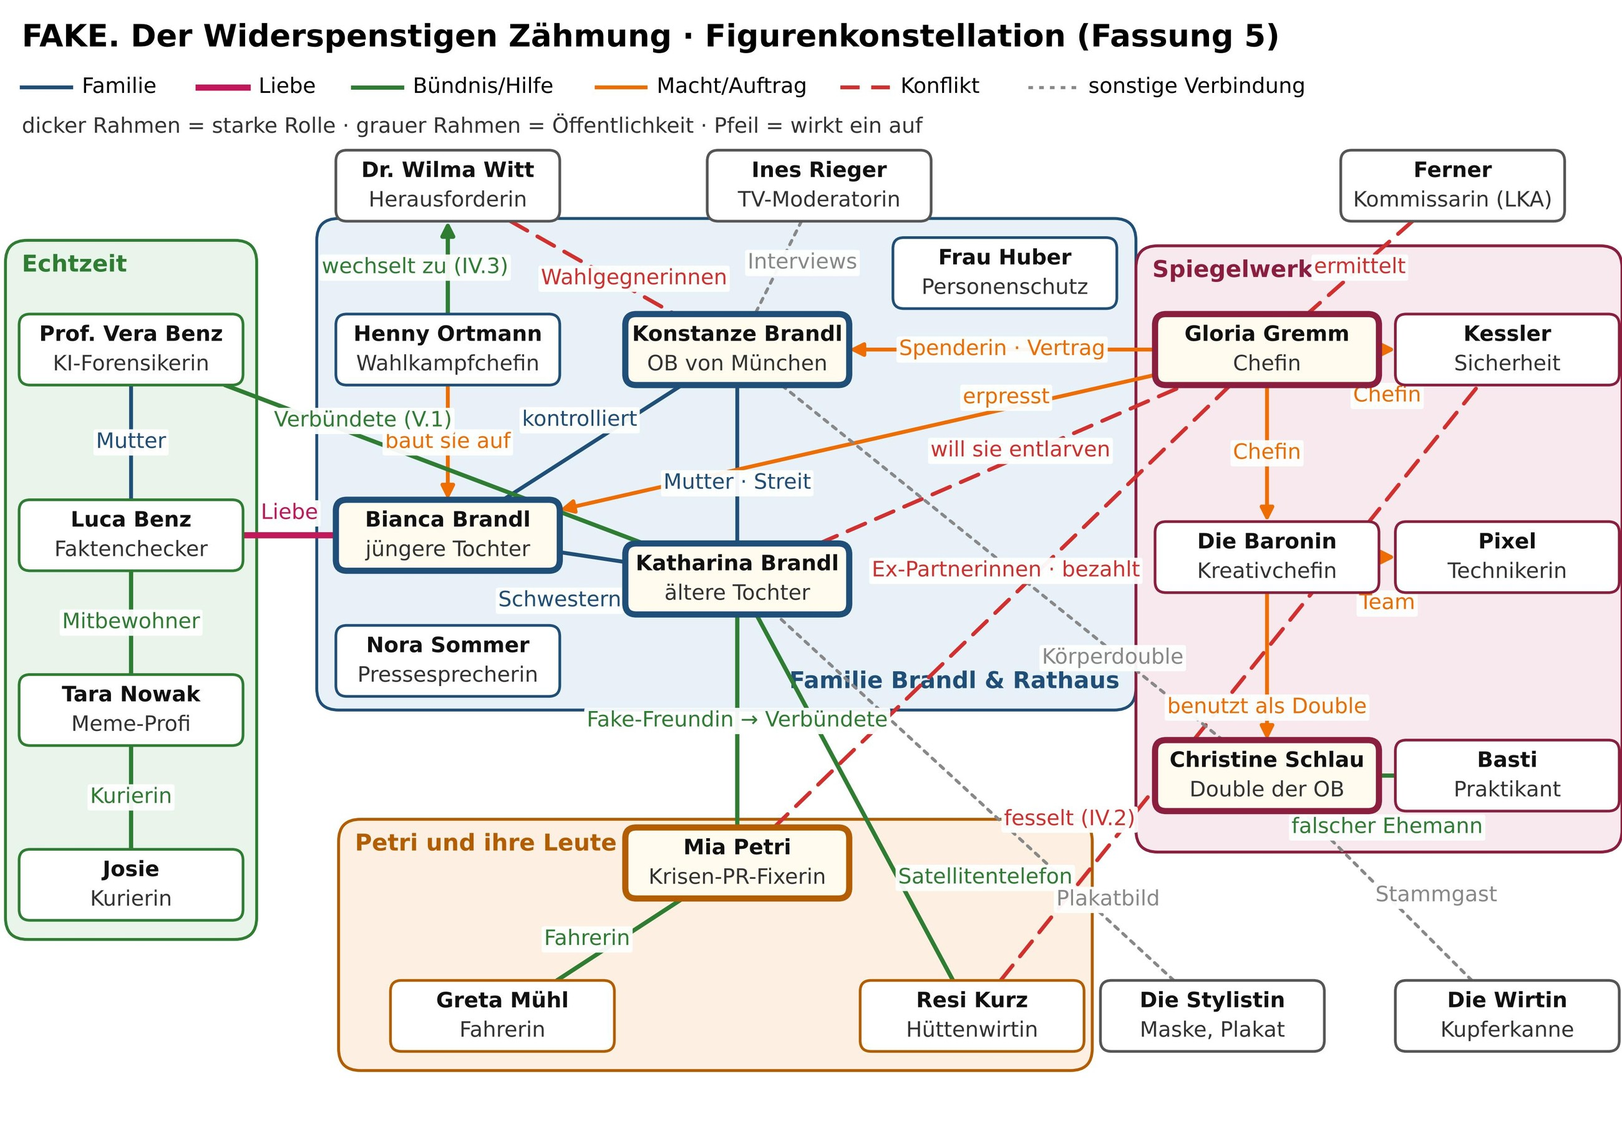
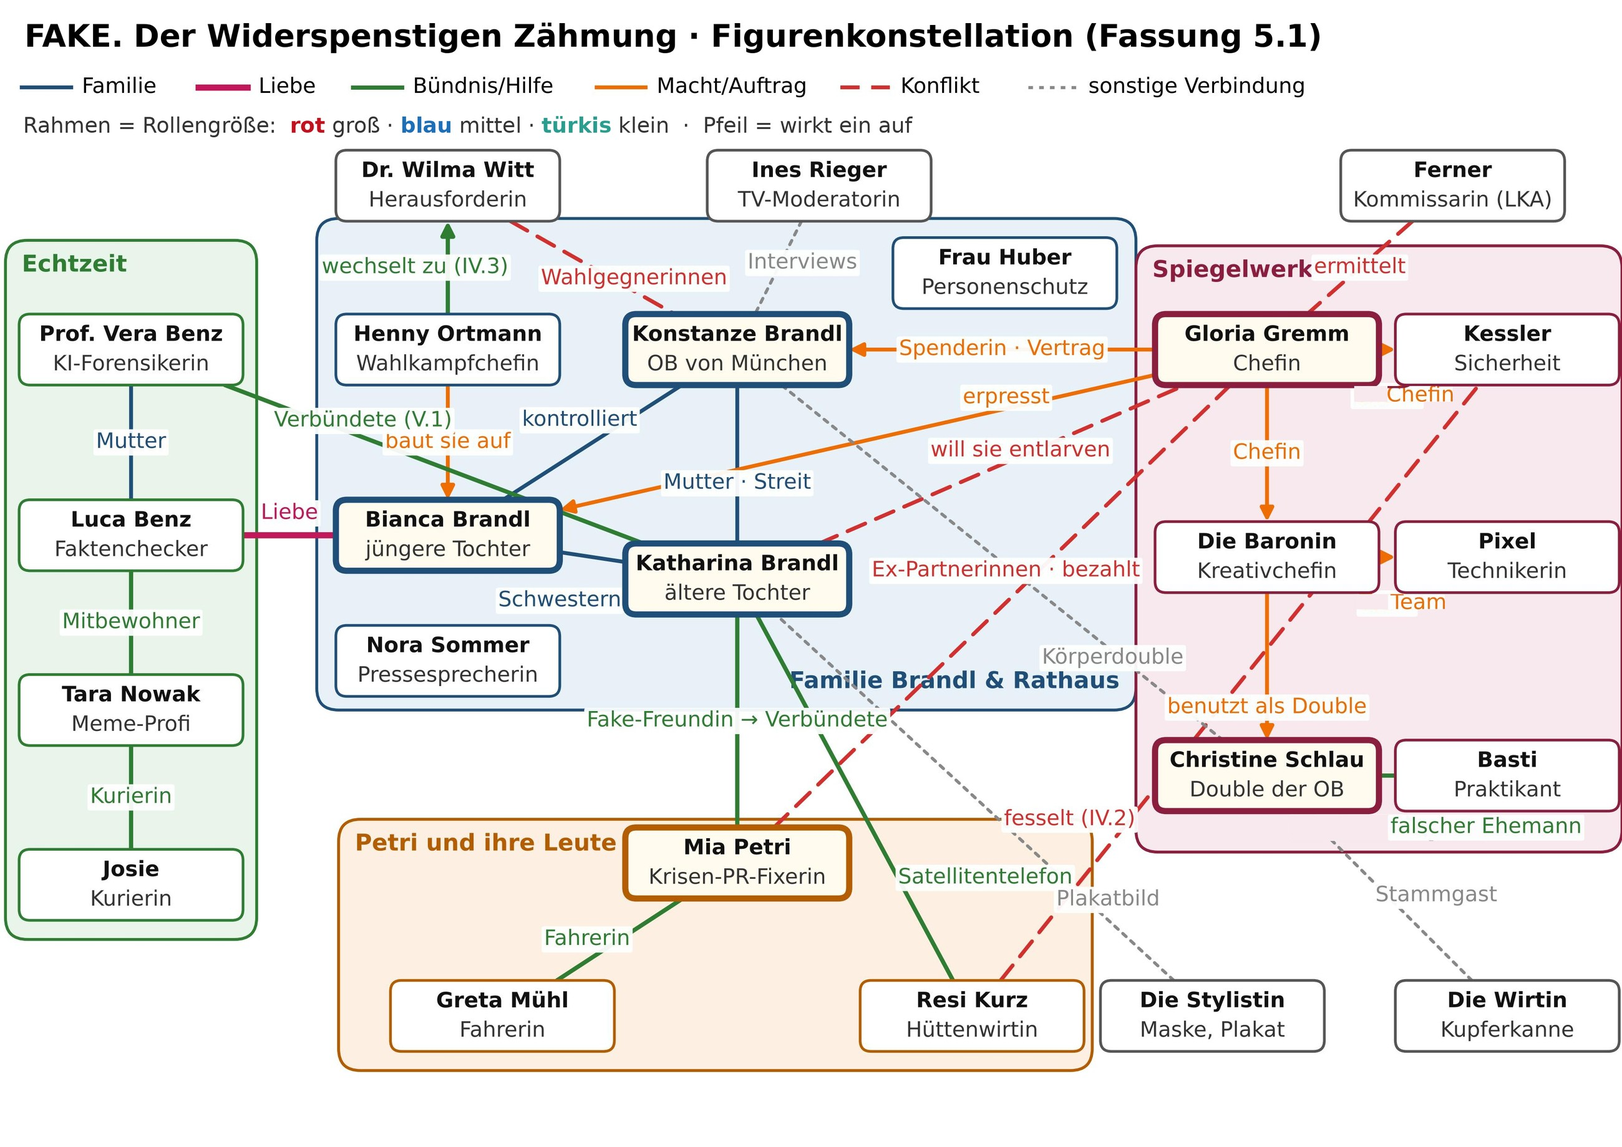
Besetzungstafel FAKE: Fassung 5.1, Rollenkarten mit Beschreibung, Größenrahmen
Wortzahlen, Szenen und Rollentypen aus dem Anhang von Fassung 5.1 (neuer
Einschub 4), Doppelrolle Pixel + Sommer entfällt. Besetzte Rollen zeigen
Name, Beschreibung und Darstellende; Rahmenfarbe nach Rollengröße.

Claude-Session: https://claude.ai/code/session_011yri2JKWKay1aEcZENJJ15

diff --git a/besetzungstafel-fake/index.html b/besetzungstafel-fake/index.html
@@ -94,11 +94,23 @@ form.add input{flex:1;min-width:0;padding:8px 10px;border:1px solid var(--line);
 .boardwrap{overflow-x:auto;border-radius:10px;border:1px solid var(--line);background:var(--sheet);box-shadow:var(--shadow)}
 .board{position:relative;min-width:980px;aspect-ratio:297/210;container-type:inline-size;background:#fff}
 .board img{position:absolute;inset:0;width:100%;height:100%;max-width:none;user-select:none;-webkit-user-drag:none;pointer-events:none}
-.slot{position:absolute;border:0;padding:0;background:transparent;border-radius:1cqw;cursor:pointer}
-.slot.over{background:rgba(43,75,140,.16);outline:2.5px solid var(--accent);outline-offset:1px}
-.slot.target .ring{position:absolute;inset:0;border-radius:inherit;outline:2px dashed var(--accent);outline-offset:1px;opacity:.55}
-.chip{position:absolute;display:flex;align-items:center;justify-content:center;gap:.35cqw;font-family:var(--f-tape);color:var(--tape-ink);
-  background:var(--tape);border-bottom:.18cqw solid var(--tape-edge);font-size:clamp(11px,1.12cqw,17px);line-height:1;padding:0 .4cqw;
+/* Rollenkarten über den Kästen der Konstellation: Name, Beschreibung, darunter die Besetzung */
+:root{--sz-gross:#c1121f;--sz-mittel:#1d6fb8;--sz-klein:#2a9d8f}
+.slot{position:absolute;display:flex;flex-direction:column;align-items:stretch;gap:.12cqw;padding:.25cqw .3cqw .3cqw;
+  background:#fff;color:#1c2331;border:.34cqw solid var(--sz-mittel);border-radius:.5cqw;cursor:pointer;text-align:center;z-index:2;overflow:hidden}
+.slot.gross{border-color:var(--sz-gross)} .slot.mittel{border-color:var(--sz-mittel)} .slot.klein{border-color:var(--sz-klein)}
+.slot .rn{font-family:"Barlow Condensed","Arial Narrow",Arial,sans-serif;font-weight:700;font-size:1.22cqw;line-height:1.05;white-space:nowrap;overflow:hidden;text-overflow:ellipsis}
+.slot .rd{font-size:.88cqw;line-height:1.05;color:#4a5263;white-space:nowrap;overflow:hidden;text-overflow:ellipsis}
+.slot .free{flex:1;display:flex;align-items:center;justify-content:center;border:.12cqw dashed #b9c0cc;border-radius:.3cqw;font-size:.8cqw;color:#8a93a3;min-height:0}
+.slot .chip{position:relative;flex:1;min-height:0}
+.slot.over{outline:.3cqw solid var(--accent);outline-offset:.15cqw;background:#eef3fc}
+.slot.target .free{border-color:var(--accent);color:var(--accent)}
+.sizes{display:flex;flex-wrap:wrap;gap:4px 12px;font-size:13px;color:var(--mute);align-items:center}
+.sizes span::before{content:"";display:inline-block;width:14px;height:10px;border:3px solid currentColor;border-radius:3px;margin-right:5px;vertical-align:-1px}
+.sizes .g{color:var(--sz-gross)} .sizes .m{color:var(--sz-mittel)} .sizes .k{color:var(--sz-klein)}
+.sizes b{color:var(--ink);font-weight:600}
+.chip{display:flex;align-items:center;justify-content:center;gap:.35cqw;font-family:var(--f-tape);color:var(--tape-ink);
+  background:var(--tape);border-bottom:.18cqw solid var(--tape-edge);font-size:clamp(10px,1.08cqw,17px);line-height:1;padding:0 .4cqw;
   box-shadow:0 1px 2px rgba(0,0,0,.25);cursor:grab;touch-action:none;user-select:none;border-radius:2px;overflow:hidden;z-index:3;
   clip-path:polygon(0 6%,3% 0,97% 3%,100% 0,99% 94%,100% 100%,2% 97%,0 100%)}
 .chip span{overflow:hidden;text-overflow:ellipsis;white-space:nowrap;min-width:0}
@@ -106,6 +118,7 @@ form.add input{flex:1;min-width:0;padding:8px 10px;border:1px solid var(--line);
 .chip.conflict{background:#f6a07e;border-bottom-color:#b0421c}
 .chip .x{font-family:var(--f-body);font-weight:700;font-size:.8em;opacity:0;border:0;background:none;color:inherit;cursor:pointer;padding:0 .1cqw;flex:none}
 .chip:hover .x,.chip:focus-within .x{opacity:.7}
+.mx td.r .sz{display:inline-block;width:.55em;height:.55em;border-radius:2px;margin-right:5px;vertical-align:.1em}
 
 /* Notfall-Doppelrollen */
 .dbl{display:grid;grid-template-columns:repeat(auto-fill,minmax(250px,1fr));gap:8px}
@@ -221,7 +234,8 @@ th.num{text-align:right}
   html,body{background:#fff}
   body{padding:0;font-size:11pt}
   .wrap{display:block;max-width:none}
-  .noprint,.wishpanel,.side,.status,#printBtn,#h-liste,#dblBox,.panel .bar .tools,.panel>.hint,.panel .note,.chip .x,.slot .ring{display:none!important}
+  .noprint,.wishpanel,.side,.status,#printBtn,#h-liste,#dblBox,.panel .bar .tools,.panel>.hint,.panel .note,.chip .x{display:none!important}
+  .slot .free{color:transparent}
   section[aria-labelledby="h-liste"]{display:none!important}
   .printonly{display:block}
   header.top{margin:0 0 2mm}
@@ -234,7 +248,8 @@ th.num{text-align:right}
   section[aria-labelledby="h-tafel"] .bar{display:none}
   section[aria-labelledby="h-tafel"]{break-after:page;page-break-after:always}
   .board{min-width:0;width:100%}
-  .chip{font-size:9.5pt}
+  .chip{font-size:9pt}
+  .slot .rn{font-size:9pt} .slot .rd{font-size:7pt}
   section[aria-labelledby="h-mx"]{break-before:page;page-break-before:always}
   section[aria-labelledby="h-mx"] .bar{display:block;margin:0 0 1mm}
   #h-mx{font-size:16pt;margin:0}
@@ -257,7 +272,7 @@ th.num{text-align:right}
 <div class="wrap">
   <header class="top">
     <div>
-      <div class="eyebrow">Theatergruppe · FAKE. Der Widerspenstigen Zähmung · Fassung 5</div>
+      <div class="eyebrow">Theatergruppe · FAKE. Der Widerspenstigen Zähmung · Fassung 5.1</div>
       <h1>Besetzungstafel</h1>
       <div class="printonly eyebrow" id="printDate"></div>
     </div>
@@ -335,14 +350,16 @@ th.num{text-align:right}
       <div class="bar">
         <h2 id="h-tafel">Die Rollen</h2>
         <div class="tools">
-          <span class="hint" style="margin:0">Besetzte Kacheln lassen sich direkt von Rolle zu Rolle schieben; auf einer besetzten Rolle tauschen sie.</span>
+          <span class="sizes" id="sizeLegend"></span>
         </div>
       </div>
+      <p class="hint" style="margin:-2px 0 8px">Besetzte Kacheln lassen sich direkt von Rolle zu Rolle schieben; auf einer besetzten Rolle tauschen sie. Der farbige Rahmen zeigt die Rollengröße laut Anhang.</p>
+      <div class="sizes printonly" id="sizeLegendPrint" style="margin:0 0 1.5mm"></div>
       <div class="boardwrap"><div class="board" id="board"><img src="konstellation.jpg" alt="Figurenkonstellation von FAKE, Fassung 5, mit allen 24 Rollen"></div></div>
 
       <div style="margin-top:14px" id="dblBox">
         <h2 style="font-size:18px">Notfall-Doppelrollen</h2>
-        <p class="hint">Laut Anhang sind keine Doppelrollen nötig: 24 Rollen für 24 Darstellende. Fällt jemand aus, lassen sich diese Paare ohne Szenen-Überschneidung zusammenlegen. Kessler liegt im Finale gefesselt auf der Bühne und kann deshalb nicht gedoppelt werden.</p>
+        <p class="hint">Laut Anhang sind keine Doppelrollen nötig: 24 Rollen für 24 Darstellende. Fällt jemand aus, lassen sich diese beiden Paare ohne Szenen-Überschneidung zusammenlegen. Alle anderen Rollen stehen im Finale gleichzeitig auf der Bühne und lassen sich deshalb nicht doppeln.</p>
         <div class="dbl" id="dbl"></div>
       </div>
     </section>
@@ -357,7 +374,7 @@ th.num{text-align:right}
     </div>
     <p class="hint" id="mxHint"></p>
     <div class="tablewrap" style="max-height:640px;overflow:auto"><table class="mx" id="mx"></table></div>
-    <p class="note">Die Zahl im Feld ist die Wortzahl der Rolle in dieser Szene (eigene Auszählung des Textbuchs; die Summen weichen um bis zu 6 Wörter vom Anhang ab). Dunkel: über 100 Wörter. Rot: eine Person hat zwei Rollen in derselben Szene. Stumme Auftritte sind nicht erfasst.</p>
+    <p class="note">Die Zahl im Feld ist die Wortzahl der Rolle in dieser Szene (eigene Auszählung des Textbuchs; die Summen weichen um bis zu 20 Wörter vom Anhang ab). Dunkel: über 100 Wörter. Rot: eine Person hat zwei Rollen in derselben Szene. Stumme Auftritte sind nicht erfasst.</p>
   </section>
 
   <section class="panel" aria-labelledby="h-liste">
@@ -374,7 +391,7 @@ th.num{text-align:right}
     </table></div>
     <div id="openRolesBox"></div>
     <textarea class="copyout" id="copyOut" hidden readonly aria-label="Besetzungsliste als Text"></textarea>
-    <p class="note">Wortzahlen aus dem Anhang von Fassung 5 (nur gesprochene Wörter). Szenen-Konflikte werden nach den Sprechanteilen geprüft: Wer zwei Rollen in derselben Szene hat, wird markiert. Stehen zwei Rollen einer Person in direkt aufeinanderfolgenden Szenen, erscheint ein Hinweis zum Umziehen. Stumme Auftritte sind nicht erfasst.</p>
+    <p class="note">Wortzahlen aus dem Anhang von Fassung 5.1 (nur gesprochene Wörter). Szenen-Konflikte werden nach den Sprechanteilen geprüft: Wer zwei Rollen in derselben Szene hat, wird markiert. Stehen zwei Rollen einer Person in direkt aufeinanderfolgenden Szenen, erscheint ein Hinweis zum Umziehen. Stumme Auftritte sind nicht erfasst.</p>
   </section>
 </div>
 
@@ -386,44 +403,46 @@ const MMW = 297, MMH = 210;
 // Szenen in Spielfolge mit Ort (laut Anhang Fassung 5)
 const SC = [
   ["Vorspiel","Vor","Rampe · Kupferkanne"],["I.1","I.1","Wahlkampfzentrale"],["I.2","I.2","Rampe · Tiefgarage"],["E1","E1","Rampe · Einschub 1"],
-  ["II.1","II.1","Wahlkampfzentrale"],["III.1","III.1","Fernsehstudio"],["III.2","III.2","Rampe"],["E2","E2","Rampe · Einschub 2"],
-  ["IV.1","IV.1","Hütte"],["IV.2","IV.2","Hütte"],["E3","E3","Rampe · Einschub 3"],["IV.3","IV.3","Wahlkampfzentrale"],
+  ["II.1","II.1","Wahlkampfzentrale"],["III.1","III.1","Fernsehstudio"],["III.2","III.2","Rampe"],["E2","E2","Rampe · Einschub 2"],["E3","E3","Rampe · Einschub 3"],
+  ["IV.1","IV.1","Hütte"],["IV.2","IV.2","Hütte"],["E4","E4","Rampe · Einschub 4"],["IV.3","IV.3","Wahlkampfzentrale"],
   ["V.1","V.1","Rampe"],["V.2","V.2","Rampe"],["V.3","V.3","Fernsehstudio · Finale"],["Nachspiel","Nach","Rampe · Kupferkanne"]
 ];
 const SIDX = Object.fromEntries(SC.map((s,i)=>[s[0],i]));
-// key: [Name, Wörter (Anhang), {Szene: Wörter (eigene Zählung)}, Tafelposition cx,cy,w,h (mm), Typ, Gruppe, Hinweis]
+// key: [Name, Wörter (Anhang 5.1), {Szene: Wörter (eigene Zählung)}, Tafelposition cx,cy,w,h (mm), Größe laut Anhang, Gruppe, Hinweis, Beschreibung]
 const R = {
-  konstanze:["Konstanze Brandl",786,{"I.1":188,"II.1":115,"III.1":93,"IV.3":194,"V.3":195},134.9,63.9,40,12,"stark","Familie Brandl & Rathaus"],
-  katharina:["Katharina Brandl",957,{"I.1":228,"II.1":85,"III.1":51,"IV.1":132,"IV.2":68,"V.1":196,"V.3":196},134.9,105.9,40,12,"stark","Familie Brandl & Rathaus"],
-  bianca:   ["Bianca Brandl",825,{"I.1":94,"II.1":115,"III.1":62,"III.2":168,"IV.3":201,"V.3":183},81.9,97.9,40,12,"stark","Familie Brandl & Rathaus"],
-  henny:    ["Henny Ortmann",378,{"I.1":101,"I.2":59,"II.1":37,"III.1":47,"IV.3":82,"V.3":52},81.9,63.9,40,12,"mittel","Familie Brandl & Rathaus"],
-  sommer:   ["Nora Sommer",154,{"I.1":19,"III.1":65,"V.3":70},81.9,120.9,40,12,"klein","Familie Brandl & Rathaus"],
-  huber:    ["Frau Huber",151,{"III.1":56,"V.3":94},183.8,49.9,40,12,"klein","Familie Brandl & Rathaus"],
-  luca:     ["Luca Benz",367,{"I.1":60,"II.1":52,"III.2":142,"IV.3":64,"V.3":49},23.8,97.9,40,12,"mittel","Echtzeit","für einen Jungen geschrieben, auch als Lucia möglich"],
-  tara:     ["Tara Nowak",379,{"I.1":56,"II.1":52,"III.2":122,"IV.3":75,"V.3":73},23.9,130,40,12,"mittel","Echtzeit"],
-  josie:    ["Josie",155,{"I.1":40,"III.2":52,"IV.3":47,"V.3":16},23.8,162,40,12,"klein","Echtzeit"],
-  vera:     ["Prof. Vera Benz",362,{"V.1":213,"V.3":149},23.9,63.9,40,12,"mittel","Echtzeit"],
-  petri:    ["Mia Petri",950,{"I.2":117,"II.1":195,"III.1":73,"IV.1":126,"IV.2":183,"V.1":156,"V.2":49,"V.3":51},134.9,157.9,40,12,"stark","Petri und ihre Leute"],
-  greta:    ["Greta Mühl",348,{"I.2":117,"III.1":31,"IV.1":33,"IV.2":64,"V.1":74,"V.3":29},91.8,186,40,12,"mittel","Petri und ihre Leute"],
-  resi:     ["Resi Kurz",349,{"IV.1":195,"IV.2":106,"V.3":48},177.8,186,40,12,"mittel","Petri und ihre Leute"],
-  gremm:    ["Gloria Gremm",845,{"I.1":150,"I.2":108,"II.1":55,"III.1":13,"IV.3":267,"V.2":63,"V.3":189},231.8,63.9,40,12,"stark","Spiegelwerk"],
-  kessler:  ["Kessler",155,{"I.2":36,"IV.2":77,"V.3":42},275.9,63.9,40,12,"klein","Spiegelwerk","im Finale gefesselt auf der Bühne"],
-  baronin:  ["Die Baronin",448,{"Vorspiel":108,"E1":83,"E2":72,"E3":46,"V.2":107,"Nachspiel":32},231.8,102,40,12,"mittel","Spiegelwerk"],
-  pixel:    ["Pixel",164,{"Vorspiel":19,"E1":25,"E2":35,"E3":31,"V.2":54},275.8,102,40,12,"klein","Spiegelwerk"],
-  christine:["Christine Schlau",875,{"Vorspiel":136,"E1":148,"III.1":16,"E2":126,"E3":140,"V.2":117,"V.3":98,"Nachspiel":88},231.8,141.9,40,12,"stark","Spiegelwerk"],
-  basti:    ["Basti",344,{"Vorspiel":41,"E1":58,"E2":101,"E3":13,"V.2":64,"V.3":21,"Nachspiel":40},275.9,141.9,40,12,"mittel","Spiegelwerk","für einen Jungen geschrieben, auch als Bastienne möglich"],
-  witt:     ["Dr. Wilma Witt",361,{"III.1":149,"IV.3":98,"V.3":114},81.9,33.9,40,12,"mittel","Außerdem"],
-  rieger:   ["Ines Rieger",370,{"I.1":79,"III.1":148,"V.3":143},149.9,33.9,40,12,"mittel","Außerdem"],
-  ferner:   ["Kommissarin Ferner",173,{"IV.3":121,"V.3":52},265.9,33.9,40,12,"klein","Außerdem"],
-  stylistin:["Die Stylistin",156,{"III.1":77,"IV.2":79},221.9,186,40,12,"klein","Außerdem"],
-  wirtin:   ["Die Wirtin",154,{"Vorspiel":85,"Nachspiel":68},275.8,186,40,12,"klein","Außerdem"]
+  konstanze:["Konstanze Brandl",813,{"I.1":188,"II.1":115,"III.1":94,"IV.3":221,"V.3":195},134.9,63.9,40,12,"gross","Familie Brandl & Rathaus","","OB von München"],
+  katharina:["Katharina Brandl",957,{"I.1":228,"II.1":85,"III.1":51,"IV.1":132,"IV.2":77,"V.1":196,"V.3":196},134.9,105.9,40,12,"gross","Familie Brandl & Rathaus","","ältere Tochter"],
+  bianca:   ["Bianca Brandl",825,{"I.1":94,"II.1":115,"III.1":62,"III.2":168,"IV.3":201,"V.3":183},81.9,97.9,40,12,"gross","Familie Brandl & Rathaus","","jüngere Tochter"],
+  henny:    ["Henny Ortmann",395,{"I.1":101,"I.2":59,"II.1":37,"III.1":47,"IV.3":99,"V.3":52},81.9,63.9,40,12,"mittel","Familie Brandl & Rathaus","","Wahlkampfchefin"],
+  sommer:   ["Nora Sommer",338,{"I.1":19,"III.1":79,"E3":149,"V.3":87},81.9,120.9,40,12,"mittel","Familie Brandl & Rathaus","","Pressesprecherin"],
+  huber:    ["Frau Huber",354,{"III.1":80,"E3":172,"V.3":101},183.8,49.9,40,12,"mittel","Familie Brandl & Rathaus","","Personenschutz"],
+  luca:     ["Luca Benz",367,{"I.1":60,"II.1":52,"III.2":142,"IV.3":64,"V.3":49},23.8,97.9,40,12,"mittel","Echtzeit","für einen Jungen geschrieben, auch als Lucia möglich","Faktenchecker"],
+  tara:     ["Tara Nowak",385,{"I.1":56,"II.1":33,"III.2":122,"IV.3":75,"V.3":79},23.9,130,40,12,"mittel","Echtzeit","","Meme-Profi"],
+  josie:    ["Josie",155,{"I.1":40,"III.2":52,"IV.3":47,"V.3":16},23.8,162,40,12,"klein","Echtzeit","","Kurierin"],
+  vera:     ["Prof. Vera Benz",362,{"V.1":213,"V.3":149},23.9,63.9,40,12,"mittel","Echtzeit","","KI-Forensikerin"],
+  petri:    ["Mia Petri",950,{"I.2":117,"II.1":195,"III.1":73,"IV.1":126,"IV.2":175,"V.1":156,"V.2":49,"V.3":51},134.9,157.9,40,12,"gross","Petri und ihre Leute","","Krisen-PR-Fixerin"],
+  greta:    ["Greta Mühl",348,{"I.2":117,"III.1":31,"IV.1":33,"IV.2":64,"V.1":74,"V.3":29},91.8,186,40,12,"mittel","Petri und ihre Leute","","Fahrerin"],
+  resi:     ["Resi Kurz",349,{"IV.1":195,"IV.2":106,"V.3":48},177.8,186,40,12,"mittel","Petri und ihre Leute","","Hüttenwirtin"],
+  gremm:    ["Gloria Gremm",854,{"I.1":150,"I.2":108,"II.1":55,"III.1":13,"IV.3":267,"V.2":63,"V.3":198},231.8,63.9,40,12,"gross","Spiegelwerk","","Chefin"],
+  kessler:  ["Kessler",155,{"I.2":36,"IV.2":77,"V.3":42},275.9,63.9,40,12,"klein","Spiegelwerk","","Sicherheit"],
+  baronin:  ["Die Baronin",669,{"Vorspiel":108,"E1":83,"E2":117,"E4":99,"V.2":107,"V.3":123,"Nachspiel":32},231.8,102,40,12,"mittel","Spiegelwerk","","Kreativchefin"],
+  pixel:    ["Pixel",369,{"Vorspiel":33,"E1":45,"E2":62,"E4":31,"V.2":74,"V.3":123},275.8,102,40,12,"mittel","Spiegelwerk","","Technikerin"],
+  christine:["Christine Schlau",905,{"Vorspiel":136,"E1":148,"III.1":16,"E2":128,"E4":142,"V.2":117,"V.3":124,"Nachspiel":88},231.8,141.9,40,12,"gross","Spiegelwerk","","Double der OB"],
+  basti:    ["Basti",344,{"Vorspiel":41,"E1":58,"E2":101,"E4":13,"V.2":64,"V.3":21,"Nachspiel":40},275.9,141.9,40,12,"mittel","Spiegelwerk","für einen Jungen geschrieben, auch als Bastienne möglich","Praktikant"],
+  witt:     ["Dr. Wilma Witt",361,{"III.1":149,"IV.3":98,"V.3":114},81.9,33.9,40,12,"mittel","Außerdem","","Herausforderin"],
+  rieger:   ["Ines Rieger",682,{"I.1":79,"III.1":169,"IV.3":199,"V.3":233},149.9,33.9,40,12,"mittel","Außerdem","","TV-Moderatorin"],
+  ferner:   ["Kommissarin Ferner",203,{"IV.3":139,"V.3":64},265.9,33.9,40,12,"klein","Außerdem","","Kommissarin (LKA)"],
+  stylistin:["Die Stylistin",160,{"III.1":81,"IV.2":79},221.9,186,40,12,"klein","Außerdem","","Maske, Plakat"],
+  wirtin:   ["Die Wirtin",154,{"Vorspiel":85,"Nachspiel":68},275.8,186,40,12,"klein","Außerdem","","Kupferkanne"]
 };
+const EXTEND_UP = new Set(["kessler","pixel","basti"]);
+const SIZES = {gross:"große Rolle",mittel:"mittlere Rolle",klein:"kleine Rolle"};
 const ORDER = Object.keys(R);
 const BOARD = ORDER;
 const TOTAL = ORDER.length; // 24 Rollen
 const MAXW = 957; // größte Rolle (Katharina) für die Gewichtung der Vorschläge
 // Zusammenlegungen laut Anhang, falls jemand ausfällt
-const DOUBLES = [["wirtin","huber"],["pixel","sommer"],["stylistin","ferner"]];
+const DOUBLES = [["wirtin","huber"],["stylistin","ferner"]];
 const STORE_DOC = "besetzung/fake-fassung5", STORE_LOCAL = "besetzungstafel-fake5-v1";
 
 let state = {actors:[], cast:{}, wishes:{}, roleMap:{}};
@@ -570,28 +589,32 @@ function render(){
 
   // Tafel
   const board=$("board");
-  board.querySelectorAll(".slot,.chip").forEach(n=>n.remove());
+  board.querySelectorAll(".slot").forEach(n=>n.remove());
   const conflictRoles=new Set();
   state.actors.forEach(a=>conflictsFor(a.id).forEach(c=>{conflictRoles.add(c.a);conflictRoles.add(c.b);}));
   BOARD.forEach(k=>{
-    const [name,,,cx,cy,w,h]=R[k];
-    const s=document.createElement("button"); s.type="button"; s.className="slot"+(selected?" target":"");
-    s.dataset.drop="role:"+k; s.setAttribute("aria-label","Rolle "+name+(state.cast[k]?", besetzt mit "+actorById(state.cast[k]).name:", frei"));
-    Object.assign(s.style,{left:((cx-w/2-1)/MMW*100)+"%",top:((cy-h/2-1)/MMH*100)+"%",width:((w+2)/MMW*100)+"%",height:((h+2)/MMH*100)+"%"});
-    s.innerHTML='<span class="ring"></span>';
-    board.appendChild(s);
+    const [name,,,cx,cy,w,h,size]=R[k]; const desc=R[k][10];
+    const s=document.createElement("div"); s.className="slot "+size+(selected?" target":""); s.tabIndex=0; s.setAttribute("role","button");
+    s.dataset.drop="role:"+k; s.setAttribute("aria-label","Rolle "+name+", "+desc+", "+SIZES[size]+(state.cast[k]?", besetzt mit "+actorById(state.cast[k]).name:", frei"));
+    // Karte deckt den Kasten im Bild ab und reicht 5 mm weiter, damit Beschreibung und Besetzung Platz haben;
+    // bei Kessler, Pixel und Basti nach oben, weil darunter Beschriftungen der Pfeile stehen
+    const up=EXTEND_UP.has(k)?5:0;
+    Object.assign(s.style,{left:((cx-w/2-0.7)/MMW*100)+"%",top:((cy-h/2-0.7-up)/MMH*100)+"%",width:((w+1.4)/MMW*100)+"%",height:((h+1.4+5)/MMH*100)+"%"});
+    s.title=name+" · "+desc+" · "+SIZES[size]+", "+words(k)+" Wörter";
+    s.innerHTML=`<span class="rn">${esc(name)}</span><span class="rd">${esc(desc)}</span>`;
     const id=state.cast[k];
     if(id){
       const a=actorById(id);
       const ch=tile(a,k,"chip"+(conflictRoles.has(k)?" conflict":"")+(selected&&selected.from===k?" sel":""));
-      const top=cy+0.1, hh=5.6, ww=w-2.5;
-      Object.assign(ch.style,{left:((cx-ww/2)/MMW*100)+"%",top:(top/MMH*100)+"%",width:(ww/MMW*100)+"%",height:(hh/MMH*100)+"%"});
       ch.dataset.drop="role:"+k;
       ch.innerHTML=`${rankBadge(a.id,k)}<span>${esc(a.name)}</span><span class="x" role="button" aria-label="Rolle freigeben" data-clear="${k}">×</span>`;
       ch.title=a.name+" als "+name+(conflictRoles.has(k)?" – Szenen-Konflikt":"");
-      board.appendChild(ch);
-    }
+      s.appendChild(ch);
+    } else s.insertAdjacentHTML("beforeend",'<span class="free">frei</span>');
+    board.appendChild(s);
   });
+  const legend=Object.keys(SIZES).map(z=>{ const ks=ORDER.filter(k=>R[k][7]===z).map(words); return `<span class="${z[0]}"><b>${SIZES[z].replace(" Rolle","")}</b>&nbsp;${Math.min(...ks)}–${Math.max(...ks)} Wörter</span>`; }).join("");
+  $("sizeLegend").innerHTML=legend; $("sizeLegendPrint").innerHTML="Rahmen = Rollengröße laut Anhang: "+legend;
 
   // Notfall-Doppelrollen
   const dbl=$("dbl"); dbl.innerHTML="";
@@ -655,7 +678,7 @@ function renderMatrix(conflictRoles){
       const id=state.cast[k], a=id?actorById(id):null;
       const cells=SC.map((s,i)=>{ const w=R[k][2][s[0]]; if(!w) return '<td class="c"></td>'; cnt[i].add(id||k);
         const bad=a&&conflictRoles.has(k)&&rolesOf(a.id).some(o=>o!==k&&R[o][2][s[0]]); return `<td class="c">${mk(w,bad)}</td>`; }).join("");
-      body+=`<tr><td class="r"><b>${esc(R[k][0])}</b>${R[k][9]?`<span class="sub">${esc(R[k][9])}</span>`:""}</td><td class="who${a?"":" empty"}">${a?esc(a.name):"offen"}</td>${cells}<td class="num">${words(k)}</td></tr>`;
+      body+=`<tr><td class="r"><i class="sz" style="background:var(--sz-${R[k][7]})" title="${SIZES[R[k][7]]}"></i><b>${esc(R[k][0])}</b>${R[k][9]?`<span class="sub">${esc(R[k][9])}</span>`:""}</td><td class="who${a?"":" empty"}">${a?esc(a.name):"offen"}</td>${cells}<td class="num">${words(k)}</td></tr>`;
     });
   } else {
     $("mxHint").textContent="Wer in welcher Szene auf der Bühne spricht – hilfreich für den Probenplan. Nur Personen mit Rolle.";
@@ -741,6 +764,7 @@ document.addEventListener("click",e=>{
 });
 document.addEventListener("keydown",e=>{
   if(e.key==="Escape"&&selected){selected=null;render();}
+  if((e.key==="Enter"||e.key===" ")&&e.target.classList&&e.target.classList.contains("slot")){e.preventDefault();e.target.click();}
 });
 
 /* ---------- Werkzeuge ---------- */
@@ -753,7 +777,7 @@ function onReset(){
 }
 $("resetBtn").addEventListener("click",onReset);
 $("copyBtn").addEventListener("click",()=>{
-  const lines=["Besetzung FAKE. Der Widerspenstigen Zähmung (Fassung 5)",""];
+  const lines=["Besetzung FAKE. Der Widerspenstigen Zähmung (Fassung 5.1)",""];
   ORDER.forEach(k=>{const a=state.cast[k]?actorById(state.cast[k]).name:"— offen —";lines.push(R[k][0]+": "+a);});
   const txt=lines.join("\n"); const out=$("copyOut");
   const done=()=>{$("copyBtn").textContent="Kopiert";setTimeout(()=>$("copyBtn").textContent="Liste als Text kopieren",1600);};
